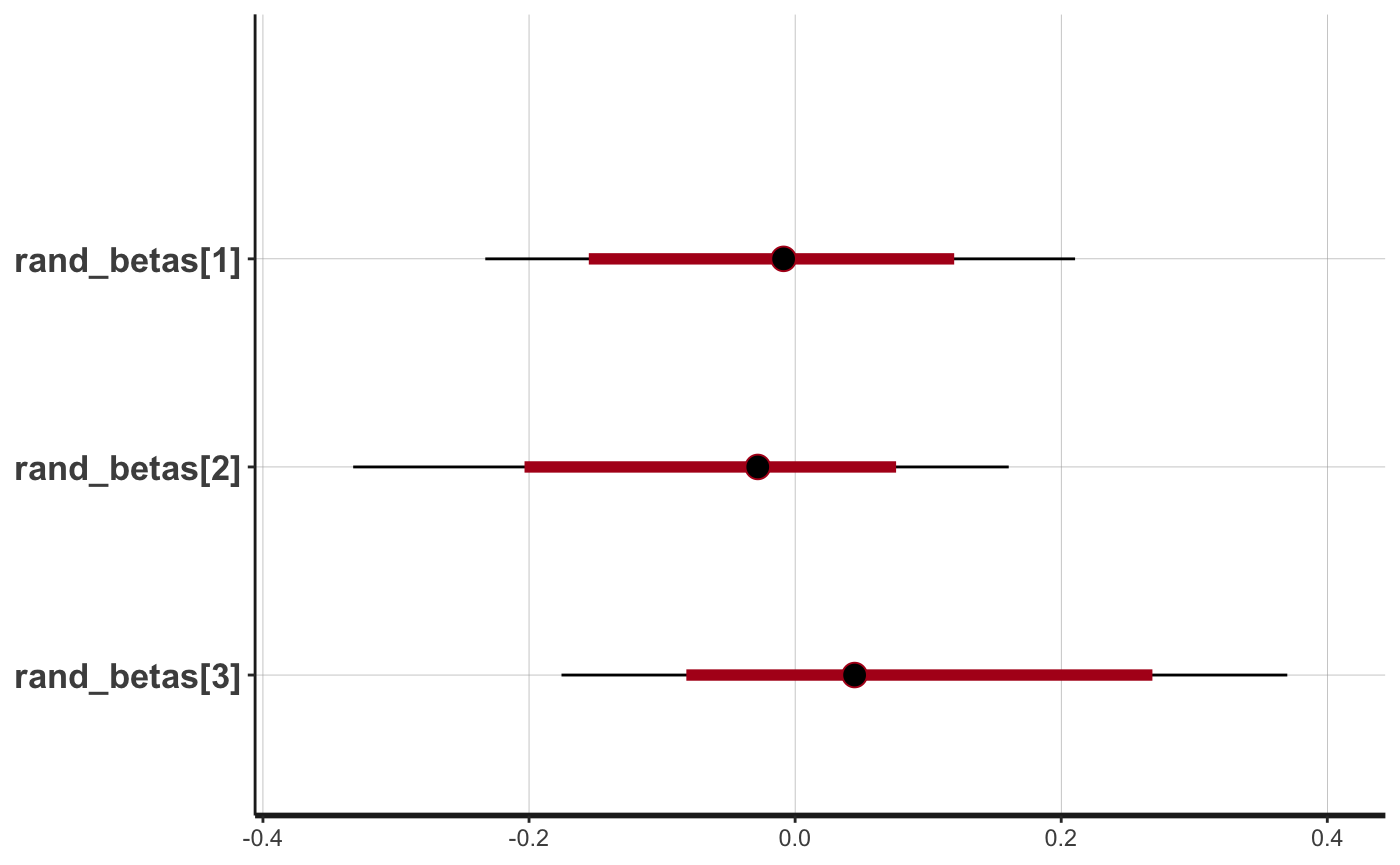
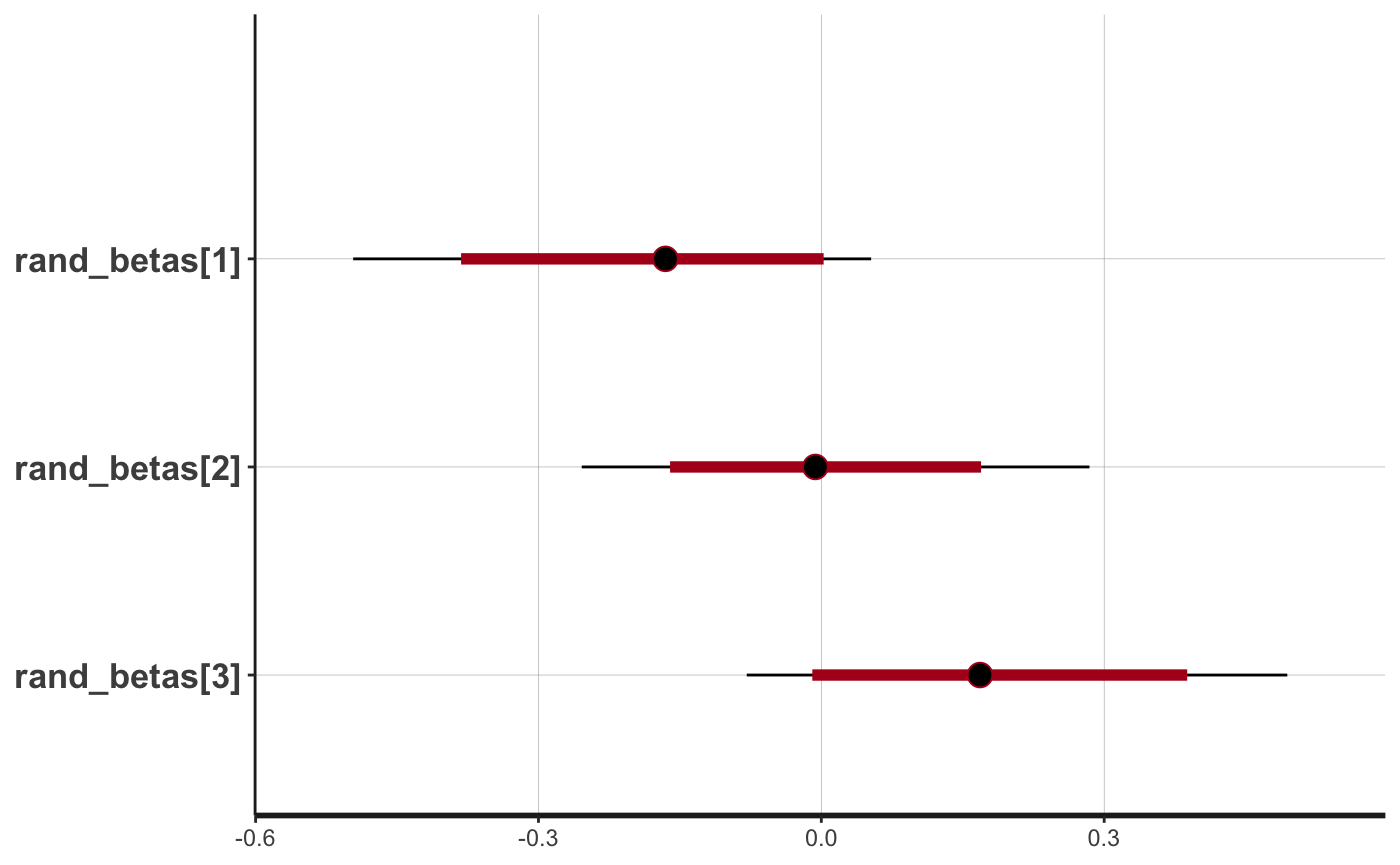
rebuild site witn modeling vignette

diff --git a/docs/articles/modeling.html b/docs/articles/modeling.html
@@ -203,8 +203,8 @@
 <a class="sourceLine" id="cb6-23" data-line-number="23"><span class="co">#&gt; Chain 1:   Log probability evaluates to log(0), i.e. negative infinity.</span></a>
 <a class="sourceLine" id="cb6-24" data-line-number="24"><span class="co">#&gt; Chain 1:   Stan can't start sampling from this initial value.</span></a>
 <a class="sourceLine" id="cb6-25" data-line-number="25"><span class="co">#&gt; Chain 1: </span></a>
-<a class="sourceLine" id="cb6-26" data-line-number="26"><span class="co">#&gt; Chain 1: Gradient evaluation took 0.000189 seconds</span></a>
-<a class="sourceLine" id="cb6-27" data-line-number="27"><span class="co">#&gt; Chain 1: 1000 transitions using 10 leapfrog steps per transition would take 1.89 seconds.</span></a>
+<a class="sourceLine" id="cb6-26" data-line-number="26"><span class="co">#&gt; Chain 1: Gradient evaluation took 0.000148 seconds</span></a>
+<a class="sourceLine" id="cb6-27" data-line-number="27"><span class="co">#&gt; Chain 1: 1000 transitions using 10 leapfrog steps per transition would take 1.48 seconds.</span></a>
 <a class="sourceLine" id="cb6-28" data-line-number="28"><span class="co">#&gt; Chain 1: Adjust your expectations accordingly!</span></a>
 <a class="sourceLine" id="cb6-29" data-line-number="29"><span class="co">#&gt; Chain 1: </span></a>
 <a class="sourceLine" id="cb6-30" data-line-number="30"><span class="co">#&gt; Chain 1: </span></a>
@@ -216,9 +216,9 @@
 <a class="sourceLine" id="cb6-36" data-line-number="36"><span class="co">#&gt; Chain 1: Iteration: 450 / 500 [ 90%]  (Sampling)</span></a>
 <a class="sourceLine" id="cb6-37" data-line-number="37"><span class="co">#&gt; Chain 1: Iteration: 500 / 500 [100%]  (Sampling)</span></a>
 <a class="sourceLine" id="cb6-38" data-line-number="38"><span class="co">#&gt; Chain 1: </span></a>
-<a class="sourceLine" id="cb6-39" data-line-number="39"><span class="co">#&gt; Chain 1:  Elapsed Time: 0.439547 seconds (Warm-up)</span></a>
-<a class="sourceLine" id="cb6-40" data-line-number="40"><span class="co">#&gt; Chain 1:                0.273842 seconds (Sampling)</span></a>
-<a class="sourceLine" id="cb6-41" data-line-number="41"><span class="co">#&gt; Chain 1:                0.713389 seconds (Total)</span></a>
+<a class="sourceLine" id="cb6-39" data-line-number="39"><span class="co">#&gt; Chain 1:  Elapsed Time: 0.46983 seconds (Warm-up)</span></a>
+<a class="sourceLine" id="cb6-40" data-line-number="40"><span class="co">#&gt; Chain 1:                0.282648 seconds (Sampling)</span></a>
+<a class="sourceLine" id="cb6-41" data-line-number="41"><span class="co">#&gt; Chain 1:                0.752478 seconds (Total)</span></a>
 <a class="sourceLine" id="cb6-42" data-line-number="42"><span class="co">#&gt; Chain 1:</span></a></code></pre></div>
 <p><br></p>
 </div>
@@ -257,14 +257,14 @@
 <p><br></p>
 <p>Matching <code>lme4</code> convention, random effects are not included in the default <code><a href="https://rdrr.io/r/base/summary.html">summary()</a></code> output. You can view or plot the random effects estimates by subsetting the <code>stanfit</code> slot of the model object with <code>@</code>, and specifying the <code>random_betas</code> parameters with the <code>pars</code> argument:</p>
 <div class="sourceCode" id="cb9"><pre class="sourceCode r"><code class="sourceCode r"><a class="sourceLine" id="cb9-1" data-line-number="1"><span class="kw"><a href="https://rdrr.io/r/base/summary.html">summary</a></span>(model_fit2<span class="op">@</span>stanfit, <span class="dt">pars =</span> <span class="st">"rand_betas"</span>, <span class="dt">probs =</span> <span class="kw"><a href="https://rdrr.io/r/base/c.html">c</a></span>(<span class="fl">0.50</span>, <span class="fl">0.025</span>, <span class="fl">0.975</span>))<span class="op">$</span>summary</a>
-<a class="sourceLine" id="cb9-2" data-line-number="2"><span class="co">#&gt;                      mean     se_mean        sd          50%       2.5%</span></a>
-<a class="sourceLine" id="cb9-3" data-line-number="3"><span class="co">#&gt; rand_betas[1] -0.01535620 0.004952760 0.1088469 -0.008547383 -0.2327741</span></a>
-<a class="sourceLine" id="cb9-4" data-line-number="4"><span class="co">#&gt; rand_betas[2] -0.04961931 0.005412857 0.1196884 -0.028105685 -0.3318218</span></a>
-<a class="sourceLine" id="cb9-5" data-line-number="5"><span class="co">#&gt; rand_betas[3]  0.06497551 0.005940765 0.1375781  0.044581853 -0.1755054</span></a>
-<a class="sourceLine" id="cb9-6" data-line-number="6"><span class="co">#&gt;                   97.5%    n_eff      Rhat</span></a>
-<a class="sourceLine" id="cb9-7" data-line-number="7"><span class="co">#&gt; rand_betas[1] 0.2103412 482.9892 0.9983644</span></a>
-<a class="sourceLine" id="cb9-8" data-line-number="8"><span class="co">#&gt; rand_betas[2] 0.1602777 488.9352 1.0005143</span></a>
-<a class="sourceLine" id="cb9-9" data-line-number="9"><span class="co">#&gt; rand_betas[3] 0.3698229 536.3080 0.9988089</span></a>
+<a class="sourceLine" id="cb9-2" data-line-number="2"><span class="co">#&gt;                       mean     se_mean        sd          50%        2.5%</span></a>
+<a class="sourceLine" id="cb9-3" data-line-number="3"><span class="co">#&gt; rand_betas[1] -0.177530707 0.008684561 0.1542947 -0.165698410 -0.49608614</span></a>
+<a class="sourceLine" id="cb9-4" data-line-number="4"><span class="co">#&gt; rand_betas[2]  0.001960104 0.005161611 0.1328360 -0.005939319 -0.25408548</span></a>
+<a class="sourceLine" id="cb9-5" data-line-number="5"><span class="co">#&gt; rand_betas[3]  0.175570603 0.007240564 0.1559807  0.168870528 -0.07909434</span></a>
+<a class="sourceLine" id="cb9-6" data-line-number="6"><span class="co">#&gt;                    97.5%    n_eff      Rhat</span></a>
+<a class="sourceLine" id="cb9-7" data-line-number="7"><span class="co">#&gt; rand_betas[1] 0.05265183 315.6504 0.9989550</span></a>
+<a class="sourceLine" id="cb9-8" data-line-number="8"><span class="co">#&gt; rand_betas[2] 0.28428868 662.3097 1.0057233</span></a>
+<a class="sourceLine" id="cb9-9" data-line-number="9"><span class="co">#&gt; rand_betas[3] 0.49419297 464.0842 0.9999459</span></a>
 <a class="sourceLine" id="cb9-10" data-line-number="10"><span class="kw"><a href="https://rdrr.io/r/graphics/plot.html">plot</a></span>(model_fit2<span class="op">@</span>stanfit, <span class="dt">pars =</span> <span class="st">"rand_betas"</span>)</a>
 <a class="sourceLine" id="cb9-11" data-line-number="11"><span class="co">#&gt; ci_level: 0.8 (80% intervals)</span></a>
 <a class="sourceLine" id="cb9-12" data-line-number="12"><span class="co">#&gt; outer_level: 0.95 (95% intervals)</span></a></code></pre></div>

diff --git a/docs/reference/sim_eDNA_lmer.html b/docs/reference/sim_eDNA_lmer.html
@@ -104,6 +104,9 @@
       <a href="../articles/artemis-overview.html">Getting started with the artemis package</a>
     </li>
     <li>
+      <a href="../articles/modeling.html">Modeling eDNA qPCR Data with `artemis`</a>
+    </li>
+    <li>
       <a href="../articles/simulation.html">Simulating eDNA Data with `artemis`</a>
     </li>
   </ul>
@@ -288,7 +291,7 @@ log[eDNA concentration] as the comparison data.</p></li>
 
 <span class='fu'><a href='https://rdrr.io/r/base/print.html'>print</a></span>(<span class='no'>ans</span>)</div><div class='output co'>#&gt; 
 #&gt; formula: Cq ~ 1
-#&gt; &lt;environment: 0x7ff125f52280&gt;
+#&gt; &lt;environment: 0x7f8ad15b3650&gt;
 #&gt; 
 #&gt; Standard curve parameters: Cq = alpha + beta * log(concentration)
 #&gt; 	Standard curve alpha =  21.2 

diff --git a/docs/reference/artemis-package.html b/docs/reference/artemis-package.html
@@ -113,6 +113,9 @@ can be found in the &quot;Getting Started&quot; vignette." />
       <a href="../articles/artemis-overview.html">Getting started with the artemis package</a>
     </li>
     <li>
+      <a href="../articles/modeling.html">Modeling eDNA qPCR Data with `artemis`</a>
+    </li>
+    <li>
       <a href="../articles/simulation.html">Simulating eDNA Data with `artemis`</a>
     </li>
   </ul>

diff --git a/docs/reference/as.data.frame.eDNA_simulation.html b/docs/reference/as.data.frame.eDNA_simulation.html
@@ -104,6 +104,9 @@
       <a href="../articles/artemis-overview.html">Getting started with the artemis package</a>
     </li>
     <li>
+      <a href="../articles/modeling.html">Modeling eDNA qPCR Data with `artemis`</a>
+    </li>
+    <li>
       <a href="../articles/simulation.html">Simulating eDNA Data with `artemis`</a>
     </li>
   </ul>

diff --git a/docs/reference/conf_to_probs.html b/docs/reference/conf_to_probs.html
@@ -104,6 +104,9 @@
       <a href="../articles/artemis-overview.html">Getting started with the artemis package</a>
     </li>
     <li>
+      <a href="../articles/modeling.html">Modeling eDNA qPCR Data with `artemis`</a>
+    </li>
+    <li>
       <a href="../articles/simulation.html">Simulating eDNA Data with `artemis`</a>
     </li>
   </ul>

diff --git a/docs/reference/eDNA_data.html b/docs/reference/eDNA_data.html
@@ -104,6 +104,9 @@
       <a href="../articles/artemis-overview.html">Getting started with the artemis package</a>
     </li>
     <li>
+      <a href="../articles/modeling.html">Modeling eDNA qPCR Data with `artemis`</a>
+    </li>
+    <li>
       <a href="../articles/simulation.html">Simulating eDNA Data with `artemis`</a>
     </li>
   </ul>

diff --git a/docs/reference/eDNA_lmer.html b/docs/reference/eDNA_lmer.html
@@ -104,6 +104,9 @@
       <a href="../articles/artemis-overview.html">Getting started with the artemis package</a>
     </li>
     <li>
+      <a href="../articles/modeling.html">Modeling eDNA qPCR Data with `artemis`</a>
+    </li>
+    <li>
       <a href="../articles/simulation.html">Simulating eDNA Data with `artemis`</a>
     </li>
   </ul>

diff --git a/docs/reference/eDNA_model-class.html b/docs/reference/eDNA_model-class.html
@@ -104,6 +104,9 @@
       <a href="../articles/artemis-overview.html">Getting started with the artemis package</a>
     </li>
     <li>
+      <a href="../articles/modeling.html">Modeling eDNA qPCR Data with `artemis`</a>
+    </li>
+    <li>
       <a href="../articles/simulation.html">Simulating eDNA Data with `artemis`</a>
     </li>
   </ul>

diff --git a/docs/reference/eDNA_simulation-class.html b/docs/reference/eDNA_simulation-class.html
@@ -104,6 +104,9 @@
       <a href="../articles/artemis-overview.html">Getting started with the artemis package</a>
     </li>
     <li>
+      <a href="../articles/modeling.html">Modeling eDNA qPCR Data with `artemis`</a>
+    </li>
+    <li>
       <a href="../articles/simulation.html">Simulating eDNA Data with `artemis`</a>
     </li>
   </ul>

diff --git a/docs/reference/est_p_detect.html b/docs/reference/est_p_detect.html
@@ -104,6 +104,9 @@
       <a href="../articles/artemis-overview.html">Getting started with the artemis package</a>
     </li>
     <li>
+      <a href="../articles/modeling.html">Modeling eDNA qPCR Data with `artemis`</a>
+    </li>
+    <li>
       <a href="../articles/simulation.html">Simulating eDNA Data with `artemis`</a>
     </li>
   </ul>

diff --git a/docs/reference/est_power_lmer.html b/docs/reference/est_power_lmer.html
@@ -104,6 +104,9 @@
       <a href="../articles/artemis-overview.html">Getting started with the artemis package</a>
     </li>
     <li>
+      <a href="../articles/modeling.html">Modeling eDNA qPCR Data with `artemis`</a>
+    </li>
+    <li>
       <a href="../articles/simulation.html">Simulating eDNA Data with `artemis`</a>
     </li>
   </ul>

diff --git a/docs/reference/est_power_range_lmer.html b/docs/reference/est_power_range_lmer.html
@@ -104,6 +104,9 @@
       <a href="../articles/artemis-overview.html">Getting started with the artemis package</a>
     </li>
     <li>
+      <a href="../articles/modeling.html">Modeling eDNA qPCR Data with `artemis`</a>
+    </li>
+    <li>
       <a href="../articles/simulation.html">Simulating eDNA Data with `artemis`</a>
     </li>
   </ul>
